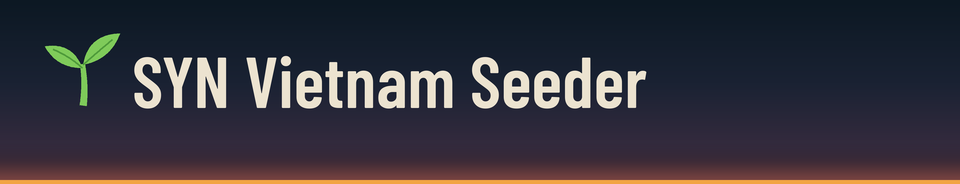
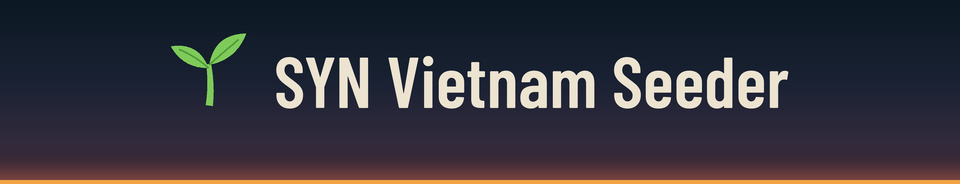
Balance the setup window: centred header, full-width setting rows, equal buttons
The title and seedling now sit as one group in the middle of the header.
Each setting is a full-width row between hairlines, with its label on the
left and its control on the right, and the Seed automatically box sits at
the right edge like the other controls. Save, Seed now and Stop seeding
share the width equally, the status text is centred under them, and the
footer keeps the version left, the stop hint centred and Open log right.

Changed region(s): [[0.0312, 0.163, 0.8438, 0.5978]]

diff --git a/seeder/window.py b/seeder/window.py
@@ -168,14 +168,12 @@ class SetupWindow:
         self.content_width = header.width() - 2 * px(MARGIN)  # so nothing below is wider than the picture
         body = ttk.Frame(self.root, padding=(px(MARGIN), px(18), px(MARGIN), px(14)))
         body.grid(row=1, column=0, sticky="nsew")
-        body.columnconfigure(0, minsize=px(144))
-        body.columnconfigure(1, weight=1)
+        body.columnconfigure(0, weight=1)
 
         # The server, and how far it is from seeded
-        ttk.Label(body, text=config.server_name, font=self.font_semibold).grid(
-            row=0, column=0, columnspan=2, sticky="w")
+        ttk.Label(body, text=config.server_name, font=self.font_semibold).grid(row=0, column=0, sticky="w")
         line = ttk.Frame(body)
-        line.grid(row=1, column=0, columnspan=2, sticky="we", pady=(px(2), px(6)))
+        line.grid(row=1, column=0, sticky="we", pady=(px(2), px(6)))
         line.columnconfigure(1, weight=1)
         self.count = ttk.Label(line, text="0", font=self.font_count, padding=(0, 0, px(6), 0))
         line.rowconfigure(0, minsize=self.count.winfo_reqheight())  # same height before the count arrives
@@ -185,66 +183,79 @@ class SetupWindow:
         self.need.grid(row=0, column=2, sticky="se", pady=(0, px(4)))
         self.meter = tk.Canvas(body, width=self.content_width, height=px(32), background=TREELINE,
                                highlightthickness=0, borderwidth=0)
-        self.meter.grid(row=2, column=0, columnspan=2, sticky="w")
+        self.meter.grid(row=2, column=0, sticky="w")
         self._draw_meter(None)
 
-        # When and how to seed
+        # When and how to seed: a row each, the setting on the left and its control against the right edge
+        settings = ttk.Frame(body)
+        settings.grid(row=3, column=0, sticky="we", pady=(px(10), 0))
+        settings.columnconfigure(0, weight=1)
+        for r in (0, 2, 4, 6):  # hairlines above, between and below the rows
+            tk.Frame(settings, height=max(1, px(1)), background=EDGE).grid(row=r, column=0, columnspan=2,
+                                                                       sticky="we")
+        for r in (1, 3, 5):
+            settings.rowconfigure(r, minsize=px(46))
+
         hour, minute = config.start_time.split(":")
-        ttk.Label(body, text="Seed every day at").grid(row=3, column=0, sticky="w", pady=(px(22), 0))
-        when = ttk.Frame(body)
-        when.grid(row=3, column=1, sticky="w", pady=(px(22), 0))
+        ttk.Label(settings, text="Seed every day at").grid(row=1, column=0, sticky="w")
+        when = ttk.Frame(settings)
+        when.grid(row=1, column=1, sticky="e")
+        self.clock = ttk.Label(when, style="Muted.TLabel")  # the pickers are 24-hour; this says AM or PM
+        self.clock.grid(row=0, column=0, padx=(0, px(12)))
         self.hour = ttk.Combobox(when, values=HOURS, width=3, state="readonly", style="Dawn.TCombobox",
                                  font=self.font_body)
         self.hour.set(hour)
-        self.hour.grid(row=0, column=0)
-        ttk.Label(when, text=":", font=self.font_semibold).grid(row=0, column=1, padx=px(6))
+        self.hour.grid(row=0, column=1)
+        ttk.Label(when, text=":", font=self.font_semibold).grid(row=0, column=2, padx=px(6))
         self.minute = ttk.Combobox(when, values=MINUTES, width=3, state="readonly", style="Dawn.TCombobox",
                                    font=self.font_body)
         self.minute.set(minute if minute in MINUTES else "00")
-        self.minute.grid(row=0, column=2)
-        self.clock = ttk.Label(when, style="Muted.TLabel")  # the pickers are 24-hour; this says AM or PM
-        self.clock.grid(row=0, column=3, padx=(px(12), 0))
+        self.minute.grid(row=0, column=3)
         for picker in (self.hour, self.minute):
             picker.bind("<<ComboboxSelected>>", lambda _: self._show_clock())
         self._show_clock()
 
-        ttk.Label(body, text="Game launcher").grid(row=4, column=0, sticky="w", pady=(px(10), 0))
+        ttk.Label(settings, text="Game launcher").grid(row=3, column=0, sticky="w")
         self.launcher = tk.StringVar(value=config.launcher)
-        chips = ttk.Frame(body)
-        chips.grid(row=4, column=1, sticky="w", pady=(px(10), 0))
+        chips = ttk.Frame(settings)
+        chips.grid(row=3, column=1, sticky="e")
         ttk.Radiobutton(chips, text="Steam", variable=self.launcher, value="steam", style="Chip.TRadiobutton",
                         width=6).grid(row=0, column=0, padx=(0, px(6)))
         ttk.Radiobutton(chips, text="Epic", variable=self.launcher, value="epic", style="Chip.TRadiobutton",
                         width=6).grid(row=0, column=1)
 
         self.enabled = tk.BooleanVar(value=schedule.is_scheduled())
-        ttk.Checkbutton(body, text="Seed automatically", variable=self.enabled, style="Dawn.TCheckbutton").grid(
-            row=5, column=1, sticky="w", pady=(px(12), 0))
+        ttk.Checkbutton(settings, text="Seed automatically", variable=self.enabled, style="Dawn.TCheckbutton"
+                        ).grid(row=5, column=0, columnspan=2, sticky="we")  # the whole row ticks it
 
-        # Actions
+        # Actions: three equal buttons across the width
         buttons = ttk.Frame(body)
-        buttons.grid(row=6, column=0, columnspan=2, sticky="we", pady=(px(24), 0))
-        buttons.columnconfigure(2, weight=1)
+        buttons.grid(row=4, column=0, sticky="we", pady=(px(20), 0))
+        for c in (0, 2, 4):
+            buttons.columnconfigure(c, weight=1, uniform="button")
+        for c in (1, 3):
+            buttons.columnconfigure(c, minsize=px(8))
         ttk.Button(buttons, text="Save", command=self.save, style="Primary.TButton").grid(
-            row=0, column=0, padx=(0, px(8)))
-        ttk.Button(buttons, text="Seed now", command=self.seed_now, style="Dawn.TButton").grid(row=0, column=1)
+            row=0, column=0, sticky="we")
+        ttk.Button(buttons, text="Seed now", command=self.seed_now, style="Dawn.TButton").grid(
+            row=0, column=2, sticky="we")
         ttk.Button(buttons, text="Stop seeding", command=self.stop, style="Dawn.TButton").grid(
-            row=0, column=3, sticky="e")
+            row=0, column=4, sticky="we")
 
         self.status = ttk.Label(body, text="Two\nlines", wraplength=self.content_width - 4, style="Muted.TLabel",
-                                justify="left")  # ttk puts 2 px either side of the text
-        self.status.grid(row=7, column=0, columnspan=2, sticky="nw", pady=(px(12), 0))
-        body.rowconfigure(7, minsize=px(12) + self.status.winfo_reqheight())  # keeps two lines, so nothing jumps
+                                justify="center", anchor="center")  # ttk puts 2 px either side of the text
+        self.status.grid(row=5, column=0, sticky="nwe", pady=(px(12), 0))
+        body.rowconfigure(5, minsize=px(12) + self.status.winfo_reqheight())  # keeps two lines, so nothing jumps
         self.status.config(text=self._schedule_text())
 
-        tk.Frame(body, height=max(1, px(1)), background=EDGE).grid(
-            row=8, column=0, columnspan=2, sticky="we", pady=(px(18), px(10)))
+        tk.Frame(body, height=max(1, px(1)), background=EDGE).grid(row=6, column=0, sticky="we",
+                                                                   pady=(px(14), px(10)))
         footer = ttk.Frame(body)
-        footer.grid(row=9, column=0, columnspan=2, sticky="we")
-        footer.columnconfigure(1, weight=1)
+        footer.grid(row=7, column=0, sticky="we")
+        for c in (0, 2):  # equal sides, so the middle is centred
+            footer.columnconfigure(c, weight=1, uniform="side")
         ttk.Label(footer, text=f"v{__version__}", style="Small.TLabel").grid(row=0, column=0, sticky="w")
-        ttk.Label(footer, text="Ctrl+Alt+End stops a run", style="Small.TLabel").grid(
-            row=0, column=1, sticky="w", padx=(px(16), 0))
+        ttk.Label(footer, text="Ctrl+Alt+End stops a run", style="Small.TLabel").grid(row=0, column=1)
         log_link = ttk.Label(footer, text="Open log", style="Link.TLabel", cursor="hand2")
         log_link.grid(row=0, column=2, sticky="e")
         log_link.bind("<Button-1>", lambda _: self.open_log())
@@ -336,10 +347,10 @@ class SetupWindow:
                              ("selected", "active", img("check-on-hover")), ("selected", img("check-on")),
                              ("active", img("check-off-hover")), sticky="w")
         style.layout("Dawn.TCheckbutton", [("Checkbutton.padding", {"sticky": "nsew", "children": [
-            ("Dawn.Checkbutton.indicator", {"side": "left", "sticky": ""}),
+            ("Dawn.Checkbutton.indicator", {"side": "right", "sticky": ""}),  # box at the right, label at the left
             ("Checkbutton.focus", {"side": "left", "sticky": "w", "children": [
                 ("Checkbutton.label", {"sticky": "nsew"})]})]})])
-        style.configure("Dawn.TCheckbutton", padding=(0, px(2)), focuscolor="#B88A4A")
+        style.configure("Dawn.TCheckbutton", padding=(0, px(2), px(1), px(2)), focuscolor="#B88A4A")
         style.map("Dawn.TCheckbutton", background=[("active", TREELINE)], foreground=[("active", HAZE)])
 
         # Hour and minute pickers, and their drop-down lists

diff --git a/tools/make_assets.py b/tools/make_assets.py
@@ -119,8 +119,9 @@ def draw_sprout(draw, ox, oy, u, bold=False, outline=None) -> None:
 
 # --------------------------------------------------------------------------- header
 HEADER_W, HEADER_H = 480, 92
-MARK_X, MARK_Y, MARK_UNIT = 16, 8, 0.8  # the seedling's 64-unit box: stem on the baseline
-TITLE_X, TITLE_Y = 66, 18
+MARK_Y, MARK_UNIT = 8, 0.8  # the seedling's 64-unit box: stem on the baseline
+MARK_GAP = 14               # from the seedling's right leaf to the name
+TITLE_Y = 18
 
 
 def dusk(width: int, height: int, glow: float) -> Image.Image:
@@ -133,15 +134,21 @@ def dusk(width: int, height: int, glow: float) -> Image.Image:
 
 
 def make_header(path: Path, scale: int) -> None:
-    """The seedling and the app's name on the dusk wash, over a line of first light."""
+    """The seedling and the app's name, centred on the dusk wash, over a line of first light."""
     S = 4 * scale  # drawn at 4x the output size, then reduced
     W, H = HEADER_W * S, HEADER_H * S
     img = dusk(W, H, 0.11)
     d = ImageDraw.Draw(img)
     d.rectangle([0, H - 2 * S, W, H], fill=rgba(FIRST_LIGHT))
-    draw_sprout(d, MARK_X * S, MARK_Y * S, MARK_UNIT * S)
     title = ImageFont.truetype(str(FONTS / "barlow-condensed-latin-600-normal.woff2"), 36 * S)
-    d.text((TITLE_X * S, TITLE_Y * S), "SYN Vietnam Seeder", font=title, fill=rgba(HAZE))
+    name = "SYN Vietnam Seeder"
+    left, _, right, _ = d.textbbox((0, 0), name, font=title)
+    # the seedling's leaves span x 8..55 of its box; centre seedling + gap + name as one group
+    mark_w = (55 - 8) * MARK_UNIT * S
+    group = mark_w + MARK_GAP * S + (right - left)
+    x = (W - group) / 2
+    draw_sprout(d, x - 8 * MARK_UNIT * S, MARK_Y * S, MARK_UNIT * S)
+    d.text((x + mark_w + MARK_GAP * S - left, TITLE_Y * S), name, font=title, fill=rgba(HAZE))
     img = img.resize((HEADER_W * scale, HEADER_H * scale), Image.LANCZOS).convert("RGB")
     img.save(path)
 
@@ -164,10 +171,10 @@ def rounded(w, h, r, fill, border=None, bw=1.0, inset=0.0, scale=1) -> Image.Ima
 
 
 def check_image(on: bool, hover: bool, scale: int) -> Image.Image:
-    """18 x 18 box, plus 8 px of air on the right so the label does not touch it."""
+    """18 x 18 box."""
     S = 8 * scale
     box = 18
-    img = Image.new("RGBA", ((box + 8) * S, box * S), (0, 0, 0, 0))
+    img = Image.new("RGBA", (box * S, box * S), (0, 0, 0, 0))
     d = ImageDraw.Draw(img)
     if on:
         d.rounded_rectangle([S, S, (box - 1) * S - 1, (box - 1) * S - 1], radius=3 * S,
@@ -182,7 +189,7 @@ def check_image(on: bool, hover: bool, scale: int) -> Image.Image:
                             fill=rgba("#8E9C92" if hover else "#5C7064"))
         d.rounded_rectangle([int(2.5 * S), int(2.5 * S), int((box - 2.5) * S) - 1, int((box - 2.5) * S) - 1],
                             radius=2 * S, fill=rgba(UNDERGROWTH))
-    return img.resize(((box + 8) * scale, box * scale), Image.LANCZOS)
+    return img.resize((box * scale, box * scale), Image.LANCZOS)
 
 
 def chevron(colour: str, scale: int) -> Image.Image:
